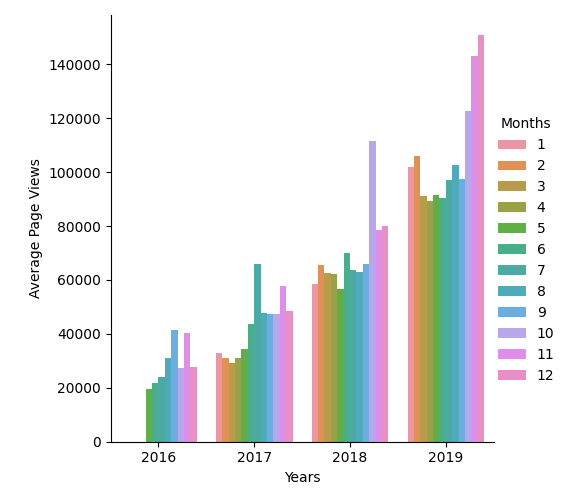
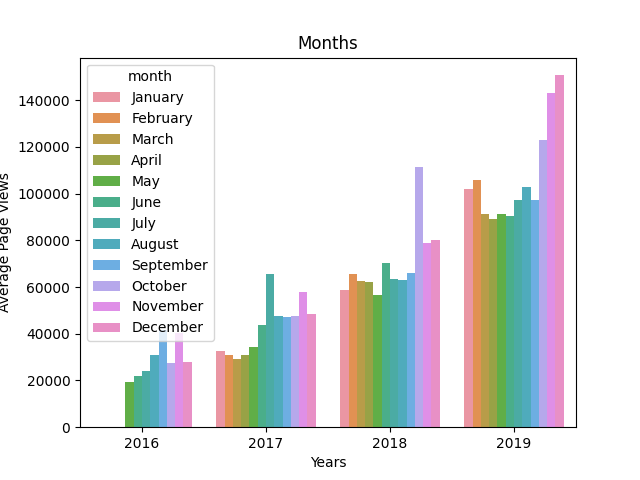
Fixing month labels

Changed region(s): [[0.0, 0.0625, 0.9894, 0.9375], [0.4497, 0.0625, 0.5697, 0.125], [0.4797, 0.9375, 0.5697, 1.0]]

diff --git a/time_series_visualizer.py b/time_series_visualizer.py
@@ -4,6 +4,8 @@ import seaborn as sns
 from pandas.plotting import register_matplotlib_converters
 register_matplotlib_converters()
 
+import calendar
+
 # Import data (Make sure to parse dates. Consider setting index column to 'date'.)
 df = pd.read_csv('fcc-forum-pageviews.csv', index_col='date', parse_dates=True)
 
@@ -35,13 +37,17 @@ def draw_line_plot():
 def draw_bar_plot():
     # Copy and modify data for monthly bar plot
     df_bar = df.copy()
-    df_bar = df_bar.groupby([df.index.year.rename('year'), df.index.month.rename('month')])['value'].mean().reset_index(name='averages')
+    df_bar = df_bar.groupby([df.index.year.rename('year'), df.index.month_name().rename('month')])['value'].mean().reset_index(name='averages')
 
     # Draw bar plot
-    plot = sns.catplot(x="year", y="averages", data=df_bar, kind="bar", hue="month")
-    legend = plot._legend
-    legend.set_title("Months")
-    plot.set_axis_labels("Years", "Average Page Views")
+    fig, ax = plt.subplots()
+
+    month_order = list(calendar.month_name)[1:]
+
+    plot = sns.barplot(x="year", y="averages", data=df_bar, hue="month", hue_order=month_order)
+    ax.set_title("Months")
+    ax.set_xlabel("Years")
+    ax.set_ylabel("Average Page Views")
     
     #trying to get figure
     fig = plot.figure
